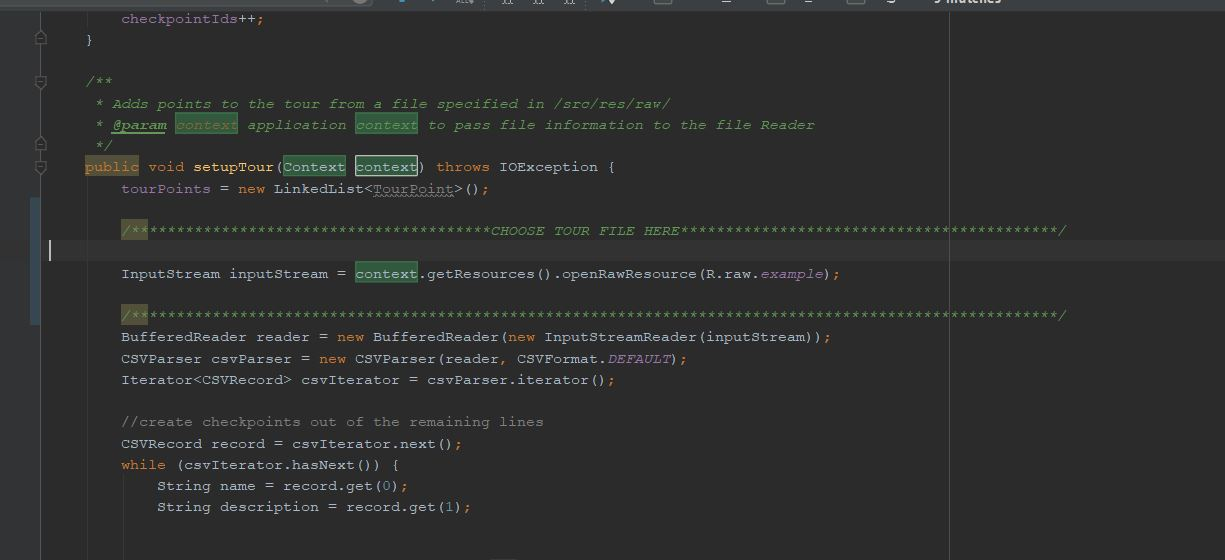
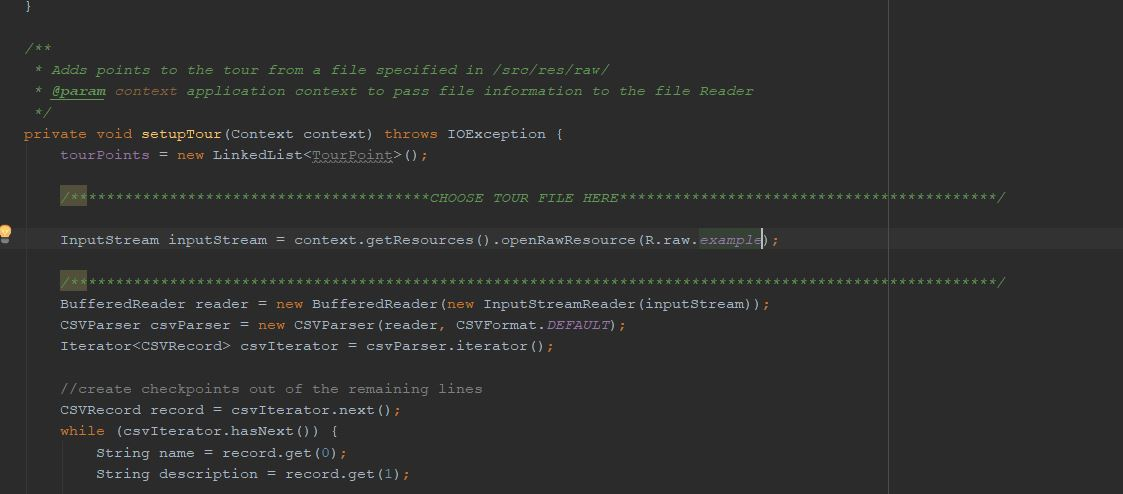
updated image

diff --git a/src/main/java/loomoTour/tourGuide/TourControl.java b/src/main/java/loomoTour/tourGuide/TourControl.java
@@ -61,7 +61,7 @@ public class TourControl {
      * Adds points to the tour from a file specified in /src/res/raw/
      * @param context application context to pass file information to the file Reader
      */
-    public void setupTour(Context context) throws IOException {
+    private void setupTour(Context context) throws IOException {
         tourPoints = new LinkedList<TourPoint>();
 
         /****************************************CHOOSE TOUR FILE HERE******************************************/
